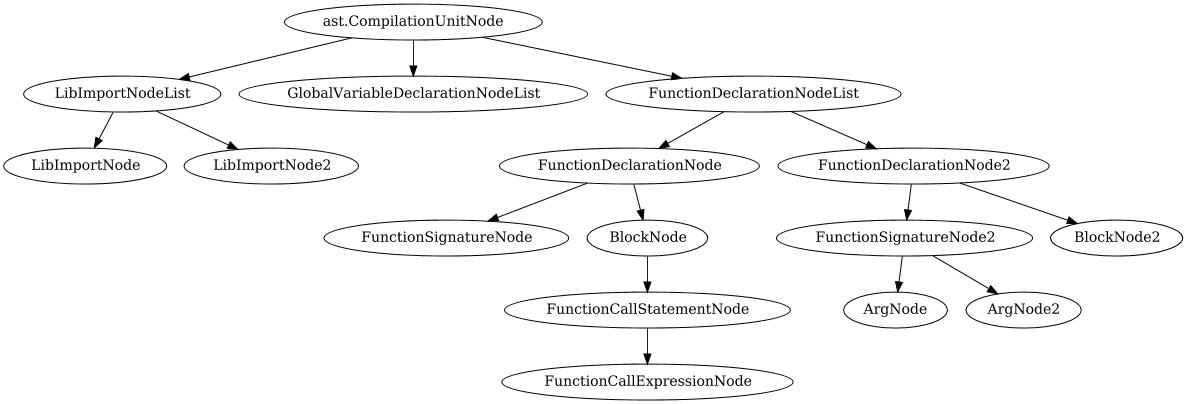
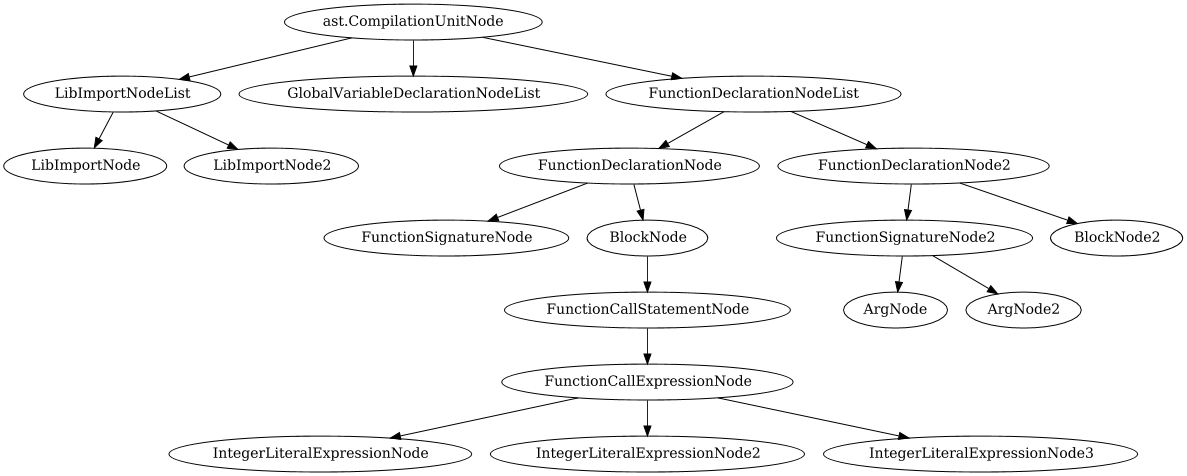
Function call expression
Check both function name and number of args

Changed region(s): [[0.0, 0.0, 0.9975, 1.0], [0.6546, 0.8614, 0.7169, 0.8911], [0.3741, 0.8614, 0.4364, 0.8911]]

diff --git a/src/main/java/passes/SyntaxAnalyzerPassVisitor.java b/src/main/java/passes/SyntaxAnalyzerPassVisitor.java
@@ -113,10 +113,6 @@ public class SyntaxAnalyzerPassVisitor extends BaseAstVisitor<String> {
 
     @Override
     public String visit(FunctionCallExpressionNode node) {
-        /*
-            TODO: Think and update
-            Function name and number of arguments are both checked. We can update this to check both, not one by one.
-         */
         if(node.libRef != null){
             /*
                 Check whether function contains in a standard library
@@ -166,10 +162,23 @@ public class SyntaxAnalyzerPassVisitor extends BaseAstVisitor<String> {
             if(!this.functions.containsKey(funcName)){
                 System.out.println("Function " + funcName + " not found");
                 return null;
+            }else{
+                /*
+                    If the function name available then check number of arguments
+                 */
+                int numOfArgs = node.parameterList.size();
+                boolean isExist = this.functions.get(node.funcName)
+                        .stream()
+                        .anyMatch(overload -> overload.size() == numOfArgs);
+
+                if(!isExist){
+                    System.out.println("Function " + funcName + " with " + numOfArgs + " arguments not found");
+                }
             }
 
             /*
-                Not have checked number of arguments. Find a way to check both function name and number of arguments once
+                Not have checked types of arguments. Find a way to check both function name and type of arguments
+                Use Type system
              */
         }
 
